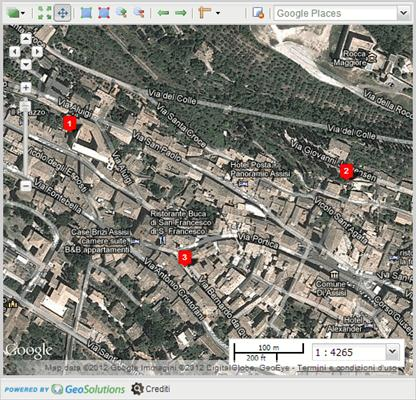
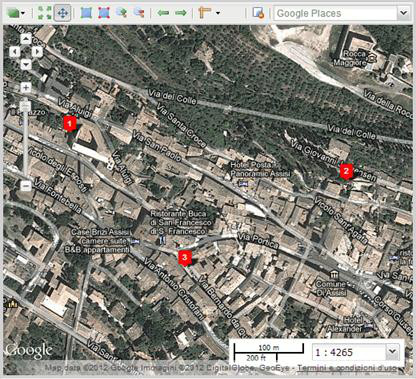
reoved references to geosolutions

diff --git a/app/static/doc_culturait/manuale_utente.htm b/app/static/doc_culturait/manuale_utente.htm
@@ -2,7 +2,7 @@
 
 <head>
 <meta http-equiv="Content-Type" content="text/html; charset=UTF-8">    
-<title>Manuale Utente MapComposer</title>
+<title>Manuale Utente MapStore</title>
 <style>
 <!--
  /* Font Definitions */
@@ -899,7 +899,7 @@ color:#365F91'>&nbsp;</span></b></p>
 style='color:windowtext;display:none;text-decoration:none'>. </span><span
 style='color:windowtext;display:none;text-decoration:none'>4</span></a></span></p -->
 <ol  >
-<li><p class=MsoToc2><span lang=EN-US><a href="#_Toc341266375">MapComposer standard<span
+<li><p class=MsoToc2><span lang=EN-US><a href="#_Toc341266375">MapStore standard<span
 style='color:black;display:none;text-decoration:none'>. </span><span
 style='color:black;display:none;text-decoration:none'>5</span></a></span></p>
 <ol type="a">
@@ -915,7 +915,7 @@ style='color:windowtext;display:none;text-decoration:none'>6</span></a></span></
 Markers</span><span style='color:windowtext;display:none;text-decoration:none'>. </span><span
 style='color:windowtext;display:none;text-decoration:none'>8</span></a></span></p>
 </ol>
-<li><p class=MsoToc2><span lang=EN-US><a href="#_Toc341266379"><span lang=IT>MapComposer
+<li><p class=MsoToc2><span lang=EN-US><a href="#_Toc341266379"><span lang=IT>MapStore
 mobile</span><span style='color:black;display:none;text-decoration:none'>. </span><span
 style='color:black;display:none;text-decoration:none'>11</span></a></span></p>
 <ol type="a">
@@ -1012,7 +1012,7 @@ clear=all style='page-break-before:always'>
 normal'><span lang=EN-US>&nbsp;</span></p>
 
 <h2 style='text-align:justify;page-break-before:always;vertical-align:baseline'><a
-name="_Toc341266375">MapComposer standard</a></h2>
+name="_Toc341266375">MapStore standard</a></h2>
 
 <h3 style='text-align:justify;vertical-align:baseline'><a name="_Toc341266376"></a><a
 name="__RefHeading__68_125287548"></a><a name="__RefHeading__52_177107304"></a><a
@@ -1342,7 +1342,7 @@ id="Immagine 138" src="manuale_utente_file/image032.jpg"></a></p>
 name="_Toc341266379"></a><a name="__RefHeading__74_125287548"></a><a
 name="__RefHeading__58_177107304"></a><a name="__RefHeading__42_1115841510"></a><a
 name="__RefHeading__3281_693669850"></a><a name="__RefHeading__1754_693669850"></a><a
-name="__RefHeading__50_668288142"></a><a name="__RefHeading__66_1480181498"></a>MapComposer
+name="__RefHeading__50_668288142"></a><a name="__RefHeading__66_1480181498"></a>MapStore
 mobile</h2>
 
 <p class=MsoNormal>&nbsp;</p>

diff --git a/app/templates/viewer.html b/app/templates/viewer.html
@@ -222,9 +222,10 @@
                         border : false,
                         header : false,                    
                         items : [appTabs],                            
-                        bbar : [
+                        /* bbar : [
                           poweredByGeoSol, ' ', aboutButton
                         ]
+						*/
                     }]
                 });
 
